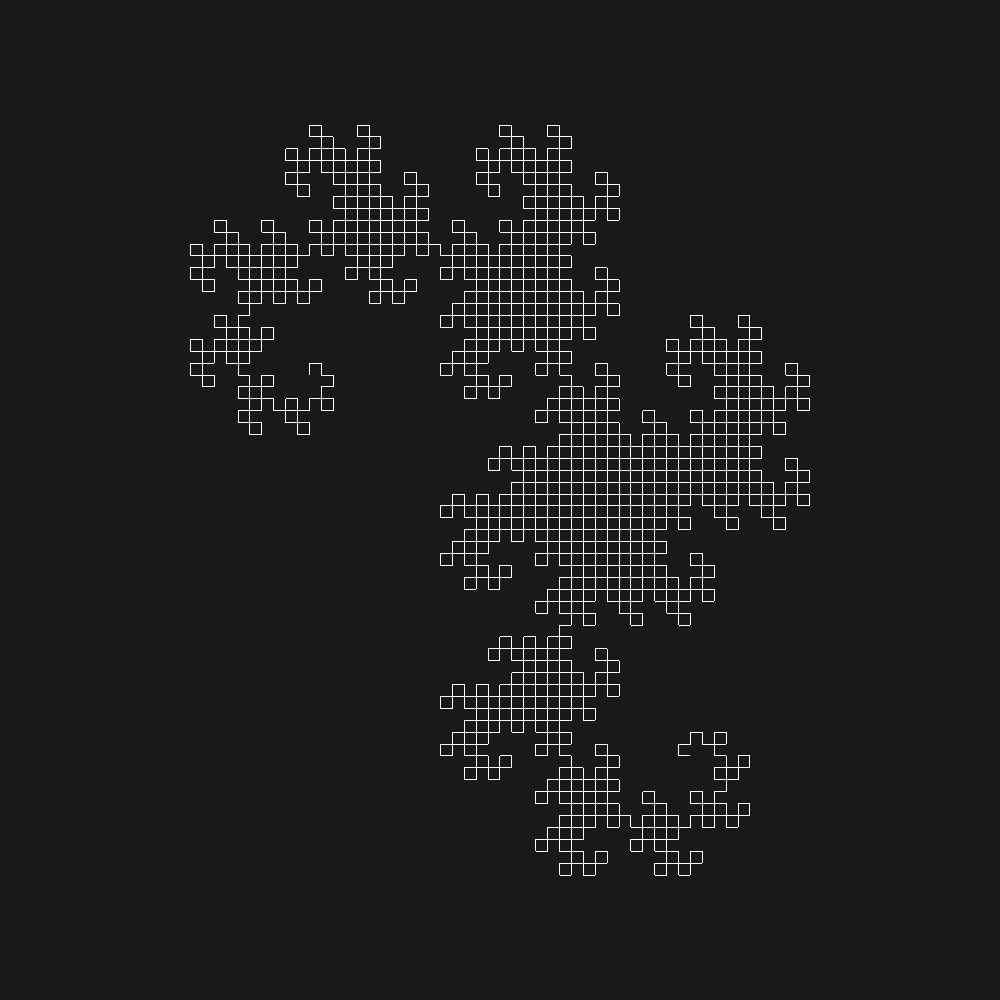
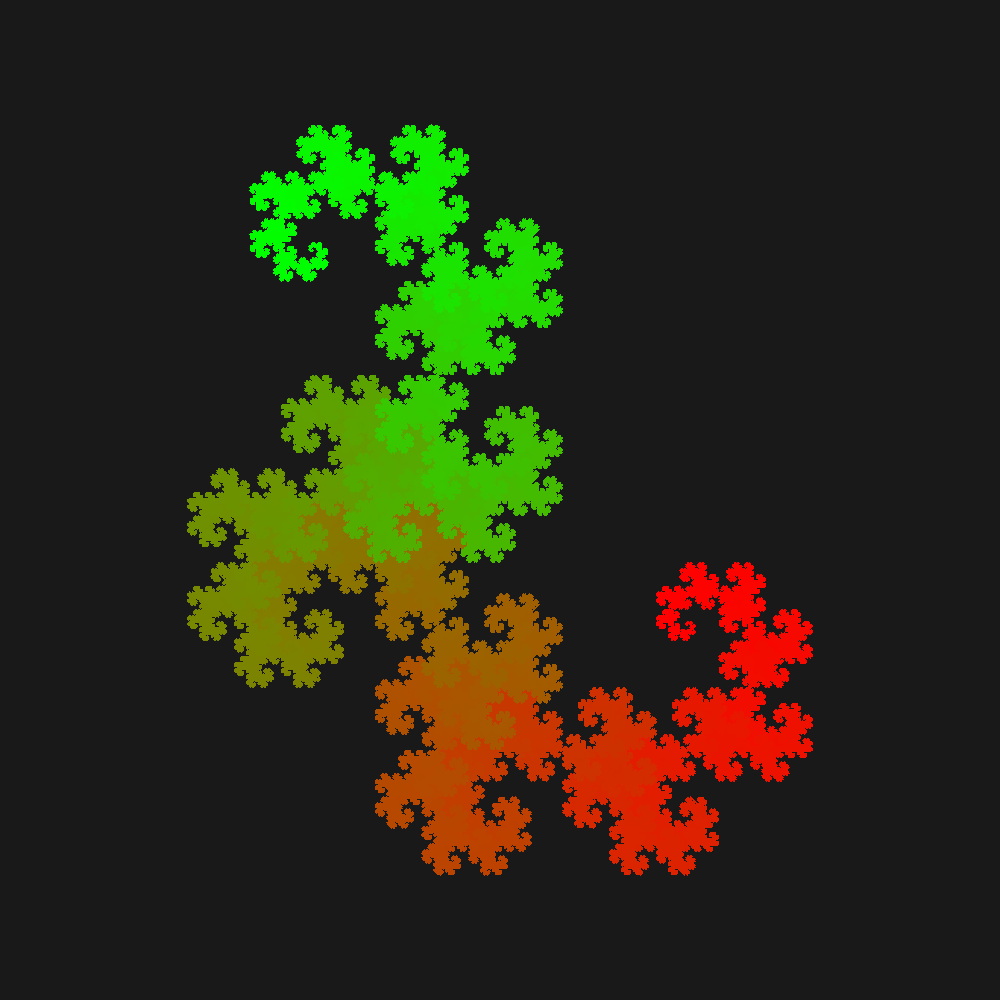
added color gradient

Changed region(s): [[0.186, 0.124, 0.837, 0.899], [0.186, 0.31, 0.248, 0.372]]

diff --git a/src/Main.py b/src/Main.py
@@ -21,15 +21,19 @@ class main:
         #version 330 core
         
         in vec2 in_Position;
-        in vec3 in_Color;
+        //in vec3 in_Color;
+        in float in_vNumber;
+        
         uniform float scaler;
         uniform vec2 middle;
         
-        out vec3 v_Color;
+        //out vec3 v_Color;
+        out float v_Number;
         
         void main() {
             gl_Position = vec4((in_Position-middle)*scaler, 0.0, 1.0);
-            v_Color = in_Color;
+            //v_Color = in_Color;
+            v_Number = in_vNumber;
         }
         '''
 
@@ -37,11 +41,24 @@ class main:
         #version 330 core
         
         in vec3 v_Color;
+        in float v_Number;
+        
+        uniform vec3 startColor;
+        uniform vec3 endColor;
+        uniform int amount;
         
         out vec4 f_Color;
         
+        vec3 tempColor;
+        vec3 tempColor2;
+        vec3 finalColor;
+        
         void main() {
-            f_Color = vec4(v_Color/255, 1.0);
+            //f_Color = vec4(v_Color*v_Number/255, 1.0);
+            tempColor = (endColor-startColor)/amount;
+            tempColor2 = tempColor*v_Number;
+            finalColor = startColor + tempColor2;
+            f_Color = vec4(finalColor/255, 1.0);
         }
         '''
 
@@ -87,11 +104,23 @@ class main:
                 print("Generate")
 
             vbo = self.ctx.buffer(vertices)
-            vao = self.ctx.vertex_array(self.prog, vbo, 'in_Position', 'in_Color')
+            vao = self.ctx.vertex_array(self.prog, vbo, 'in_Position', 'in_vNumber')
 
+            # vertex shader variables
             self.prog['scaler'] = scaler
             self.prog['middle'] = middle
+
+            # fragment shader variables
+            self.prog['startColor'] = [255,0,0]
+            self.prog['endColor'] = [0,255,0]
+            self.prog['amount'] = len(self.pointsArray)-1
+
+            # render the image
             vao.render(moderngl.LINE_STRIP)
+
+            # releasing
+            vbo.release()
+            vao.release()
 
             pygame.display.flip()
             self.clock.tick(60)

diff --git a/src/DragonCurve.py b/src/DragonCurve.py
@@ -31,14 +31,18 @@ class DragonCurve:
     def generateVerticesArray(self, pointsArray):
         vertexArray = []
 
+        count = 0
         for position in pointsArray:
             # position
             vertexArray.append(position[0])
             vertexArray.append(position[1])
             # color
-            vertexArray.append(255)
-            vertexArray.append(255)
-            vertexArray.append(255)
+            #vertexArray.append(255)
+            #vertexArray.append(255)
+            #vertexArray.append(255)
+            # number
+            vertexArray.append(count)
+            count += 1
 
         vertexArray = np.array(vertexArray, dtype='f4')
 
